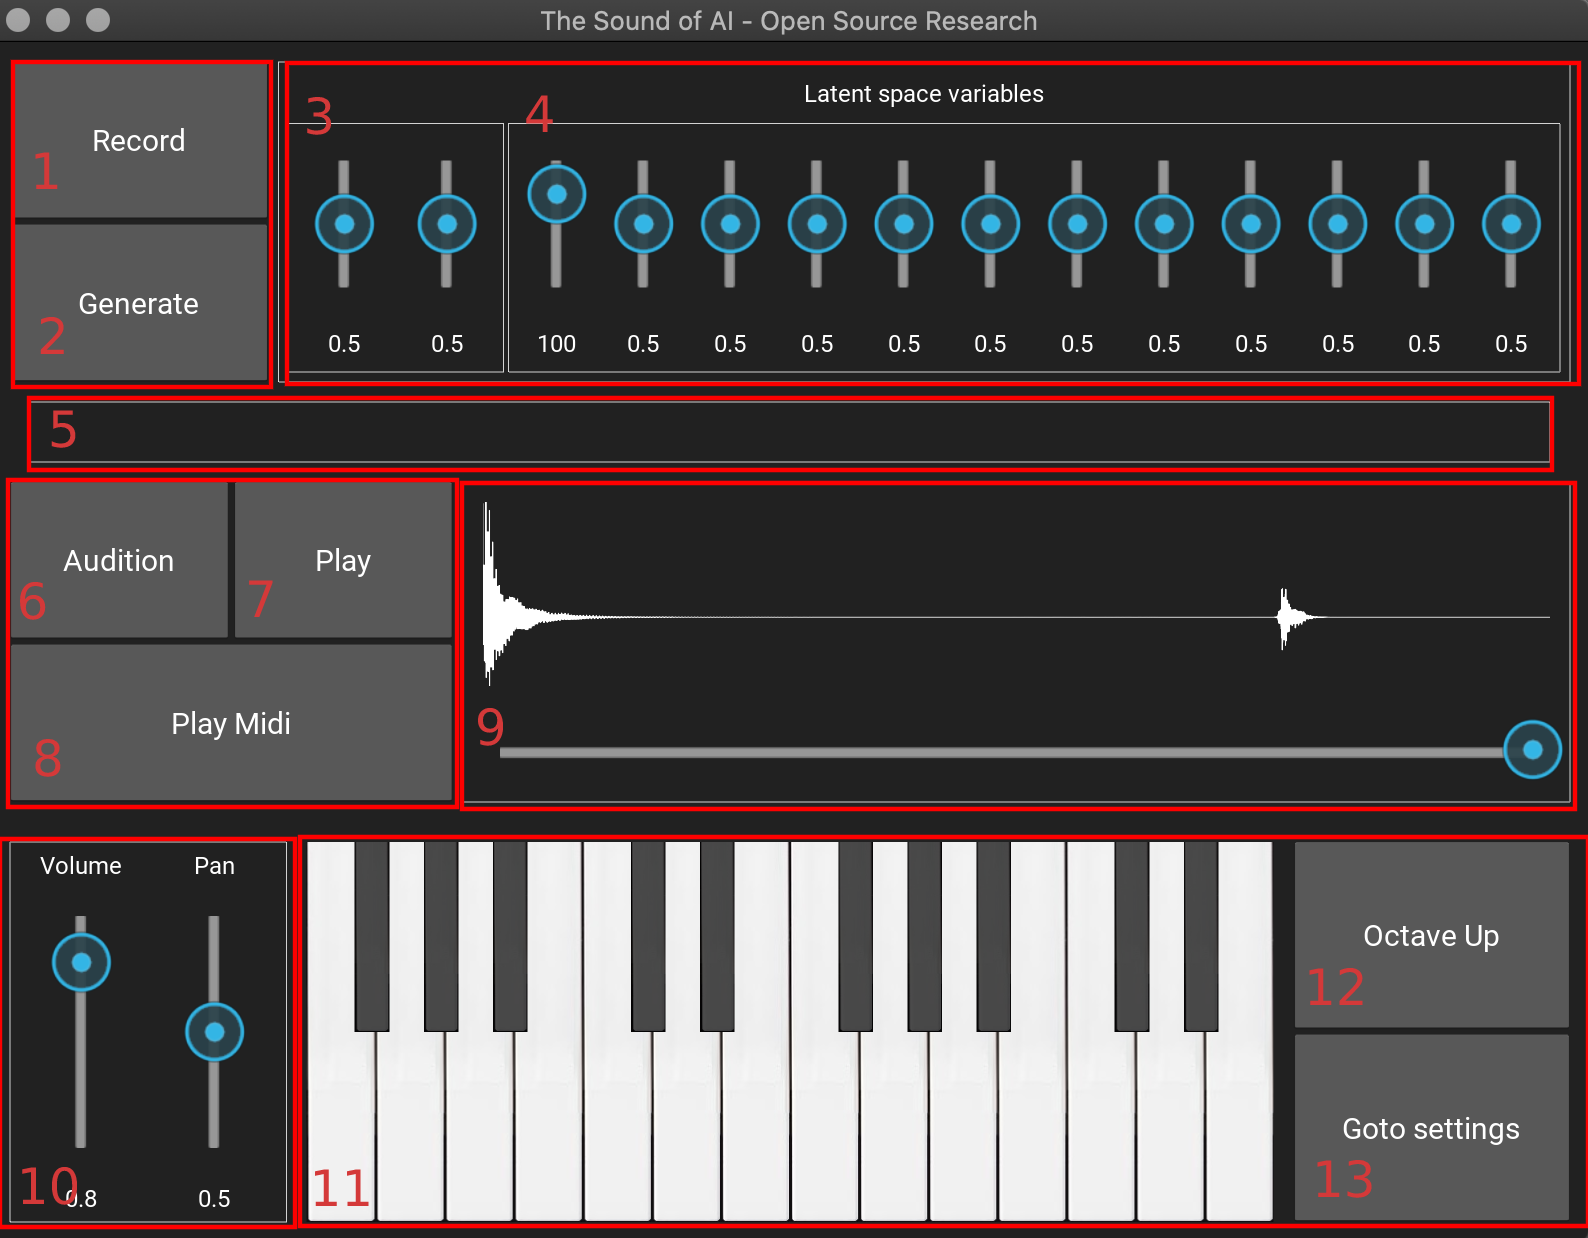
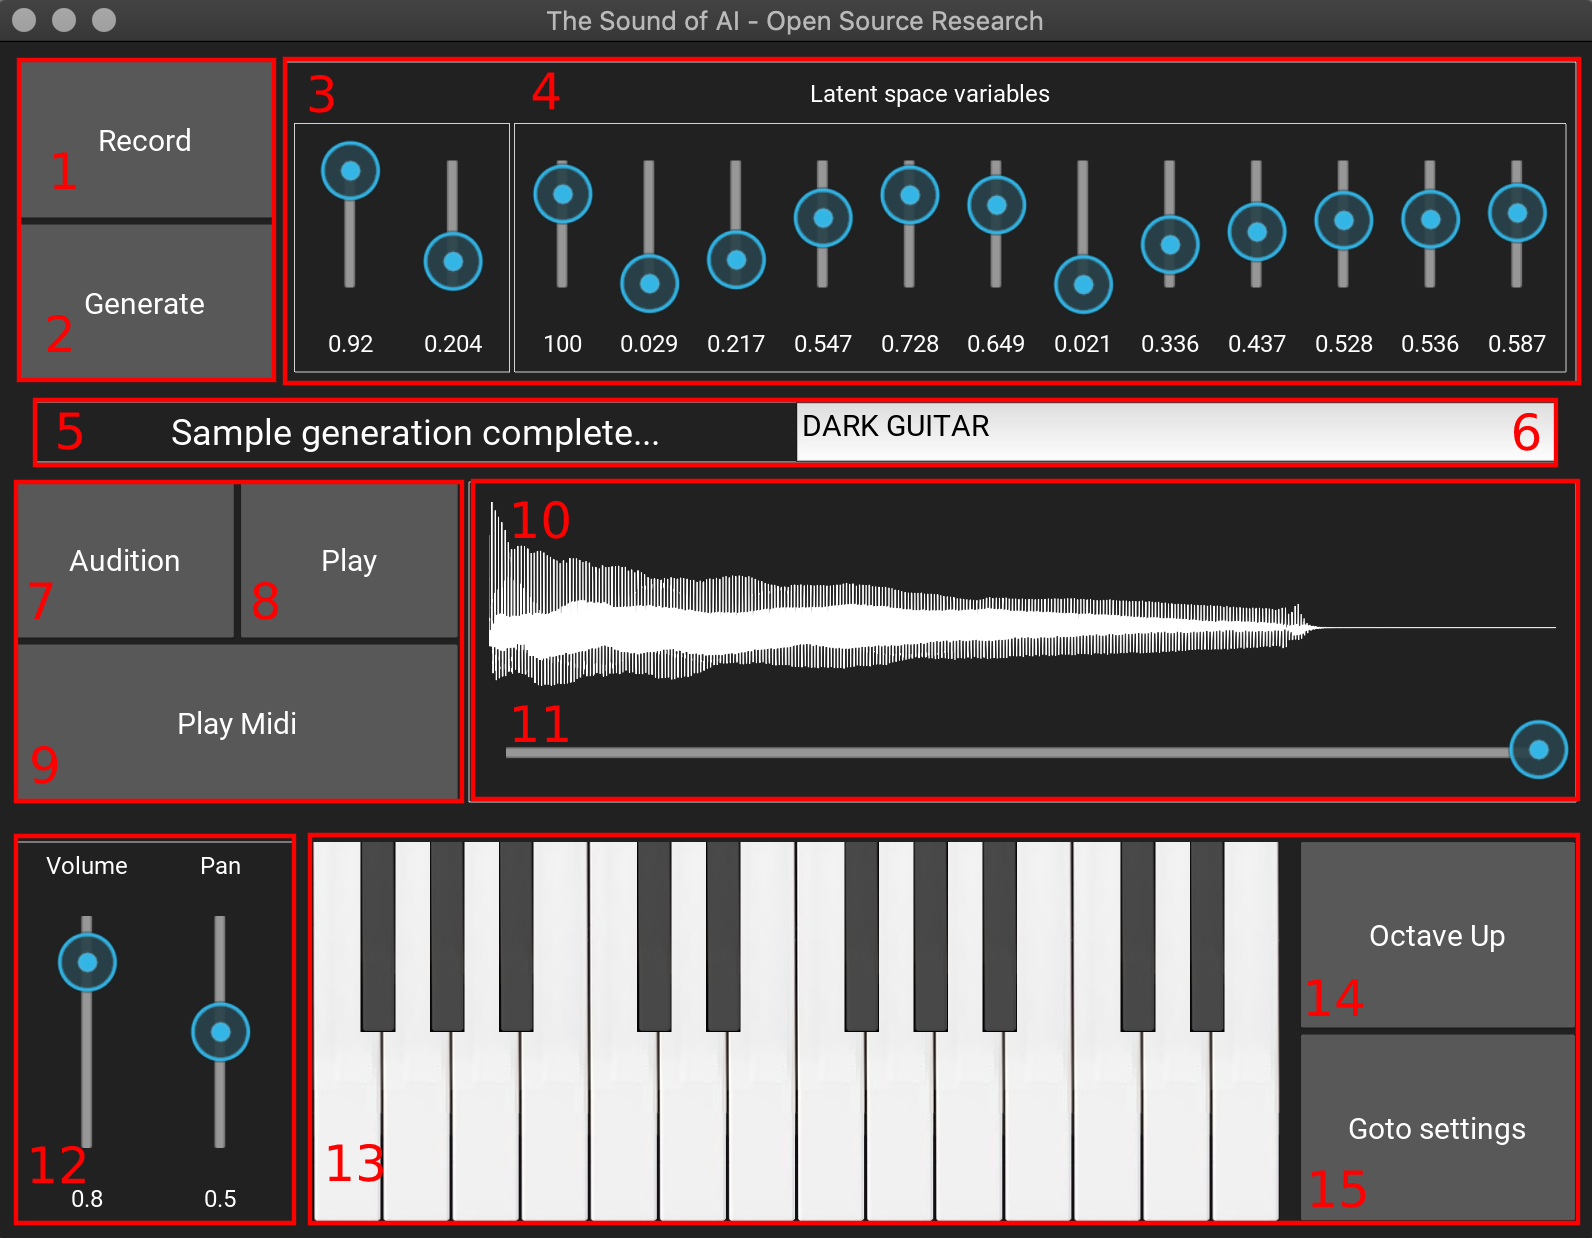
updated manual

diff --git a/Manual.md b/Manual.md
@@ -8,6 +8,7 @@
 
 #### Record and Generate
 1 Record button: allows to start/ stop the recording of a voice command
+
 2 Generate button: generate four octaves of notes, mapped to MIDI notes 40 to 88
 
 #### Latent space variables
@@ -31,25 +32,29 @@ The twelve parameters are :
 #### Text Area
 5 This area displays text that reports back the status of the application after a command is executed.
 
+6 Textbox area where you can type your command or modify the command received from the Speech to Text engine
+
 #### Audition, Play and Play MIDI
-6 Audition button: allows to generate only one note, to be able to audition the sound before generating the whole note range
+7 Audition button: allows to generate only one note, to be able to audition the sound before generating the whole note range
 
-7 Play button: playback button for the audition sample
+8 Play button: playback button for the audition sample
 
-8 Play MIDI button: allows to load and playback a MIDI file (.mid). Requires a fully generated note range to operate
+9 Play MIDI button: allows to load and playback a MIDI file (.mid). Requires a fully generated note range to operate
 
 #### Sample Display
-9 The plot displays the latest generated sample, only after generating a whole note range (does not display audition samples).
-The slider below it controls the length of sample playback
+10 The plot displays the latest generated sample, only after generating a whole note range (does not display audition samples).
+
+11 The slider below it controls the length of sample playback
 
 #### Volume and Pan
-10 Volume slider: controls the global volume of the sampler
-   Pan slider: controls the panning of the instrument (0-1) Left to Right
+12 These two sliders control some global parameters of the sampler
+- Volume slider: controls the global volume of the sampler
+- Pan slider: controls the panning of the instrument (0-1) Left to Right
 
 #### On screen Keyboard and Octave, Settings
-11 The keyboard offers an interface to perform the generated note range of samples, tow octaves at a time.
-12 Octave Up button: allows to switch the octave range of the on screen keyboard by two octaves up and down.
-13 Goto Settings button: opens the settings window
+13 The keyboard offers an interface to perform the generated note range of samples, tow octaves at a time.
+14 Octave Up button: allows to switch the octave range of the on screen keyboard by two octaves up and down.
+15 Goto Settings button: opens the settings window
 
 ### Settings Window
 
